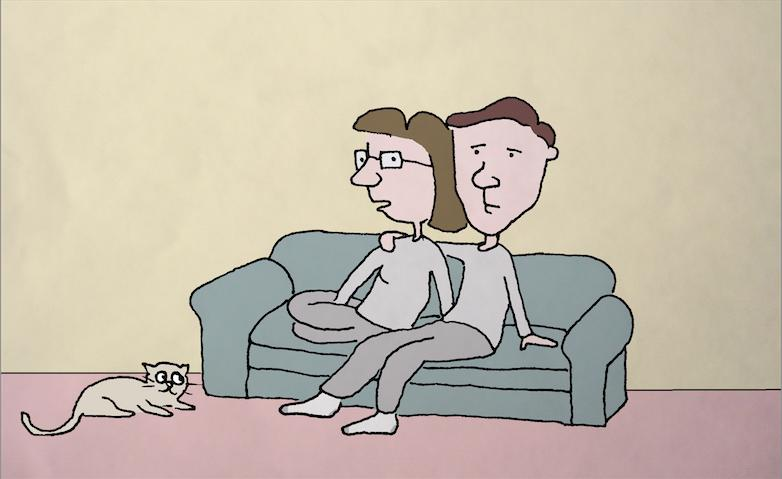
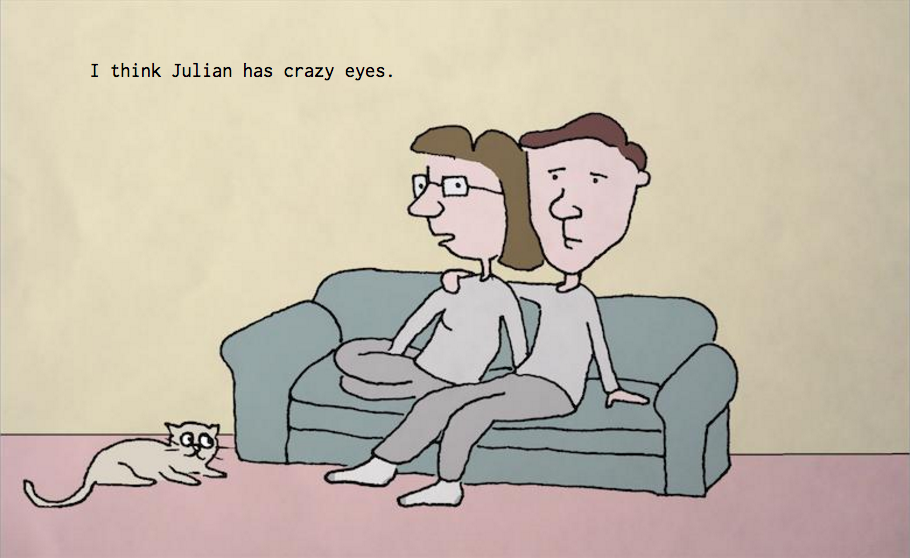
more comic text fixes

diff --git a/_posts/2014-03-13-julian-crazy-eyes.html b/_posts/2014-03-13-julian-crazy-eyes.html
@@ -12,19 +12,19 @@ css: julian-crazy-eyes
 <div id="comic">
 <div class="page">
     <img class="frame center" src="/assets/images/julian-crazy-eyes/1.png">
-    <span id="w-1" class="text">I've been reading this book about media, and how the Web is changing the way we all think. And it's got me worried...</span>
+    <!--<span id="w-1" class="text">I've been reading this book about media, and how the Web is changing the way we all think. And it's got me worried...</span>-->
 </div>
 <div class="page">
     <img class="frame center" src="/assets/images/julian-crazy-eyes/2.png">
-    <span id="w-2" class="text">Part of me thinks I should just give up the Internet for good, you know? But it's frustrating, because if the way media changes us has nothing to do with the way we use it, then what's the point?</span>
+    <!--<span id="w-2" class="text">Part of me thinks I should just give up the Internet for good, you know? But it's frustrating, because if the way media changes us has nothing to do with the way we use it, then what's the point?</span>-->
 </div>
 <div class="page">
     <img class="frame center" src="/assets/images/julian-crazy-eyes/3.png">
-    <span id="w-3a" class="text">Well, you know what I think?</span>
-    <span id="w-3b" class="text">No, what?</span>
+    <!--<span id="w-3a" class="text">Well, you know what I think?</span>
+    <span id="w-3b" class="text">No, what?</span>-->
 </div>
 <div class="page">
     <img class="frame center" src="/assets/images/julian-crazy-eyes/4.png">
-    <span id="w-4" class="text">I think Julian has crazy eyes.</span>
+    <!--<span id="w-4" class="text">I think Julian has crazy eyes.</span>-->
 </div>
 </div>
